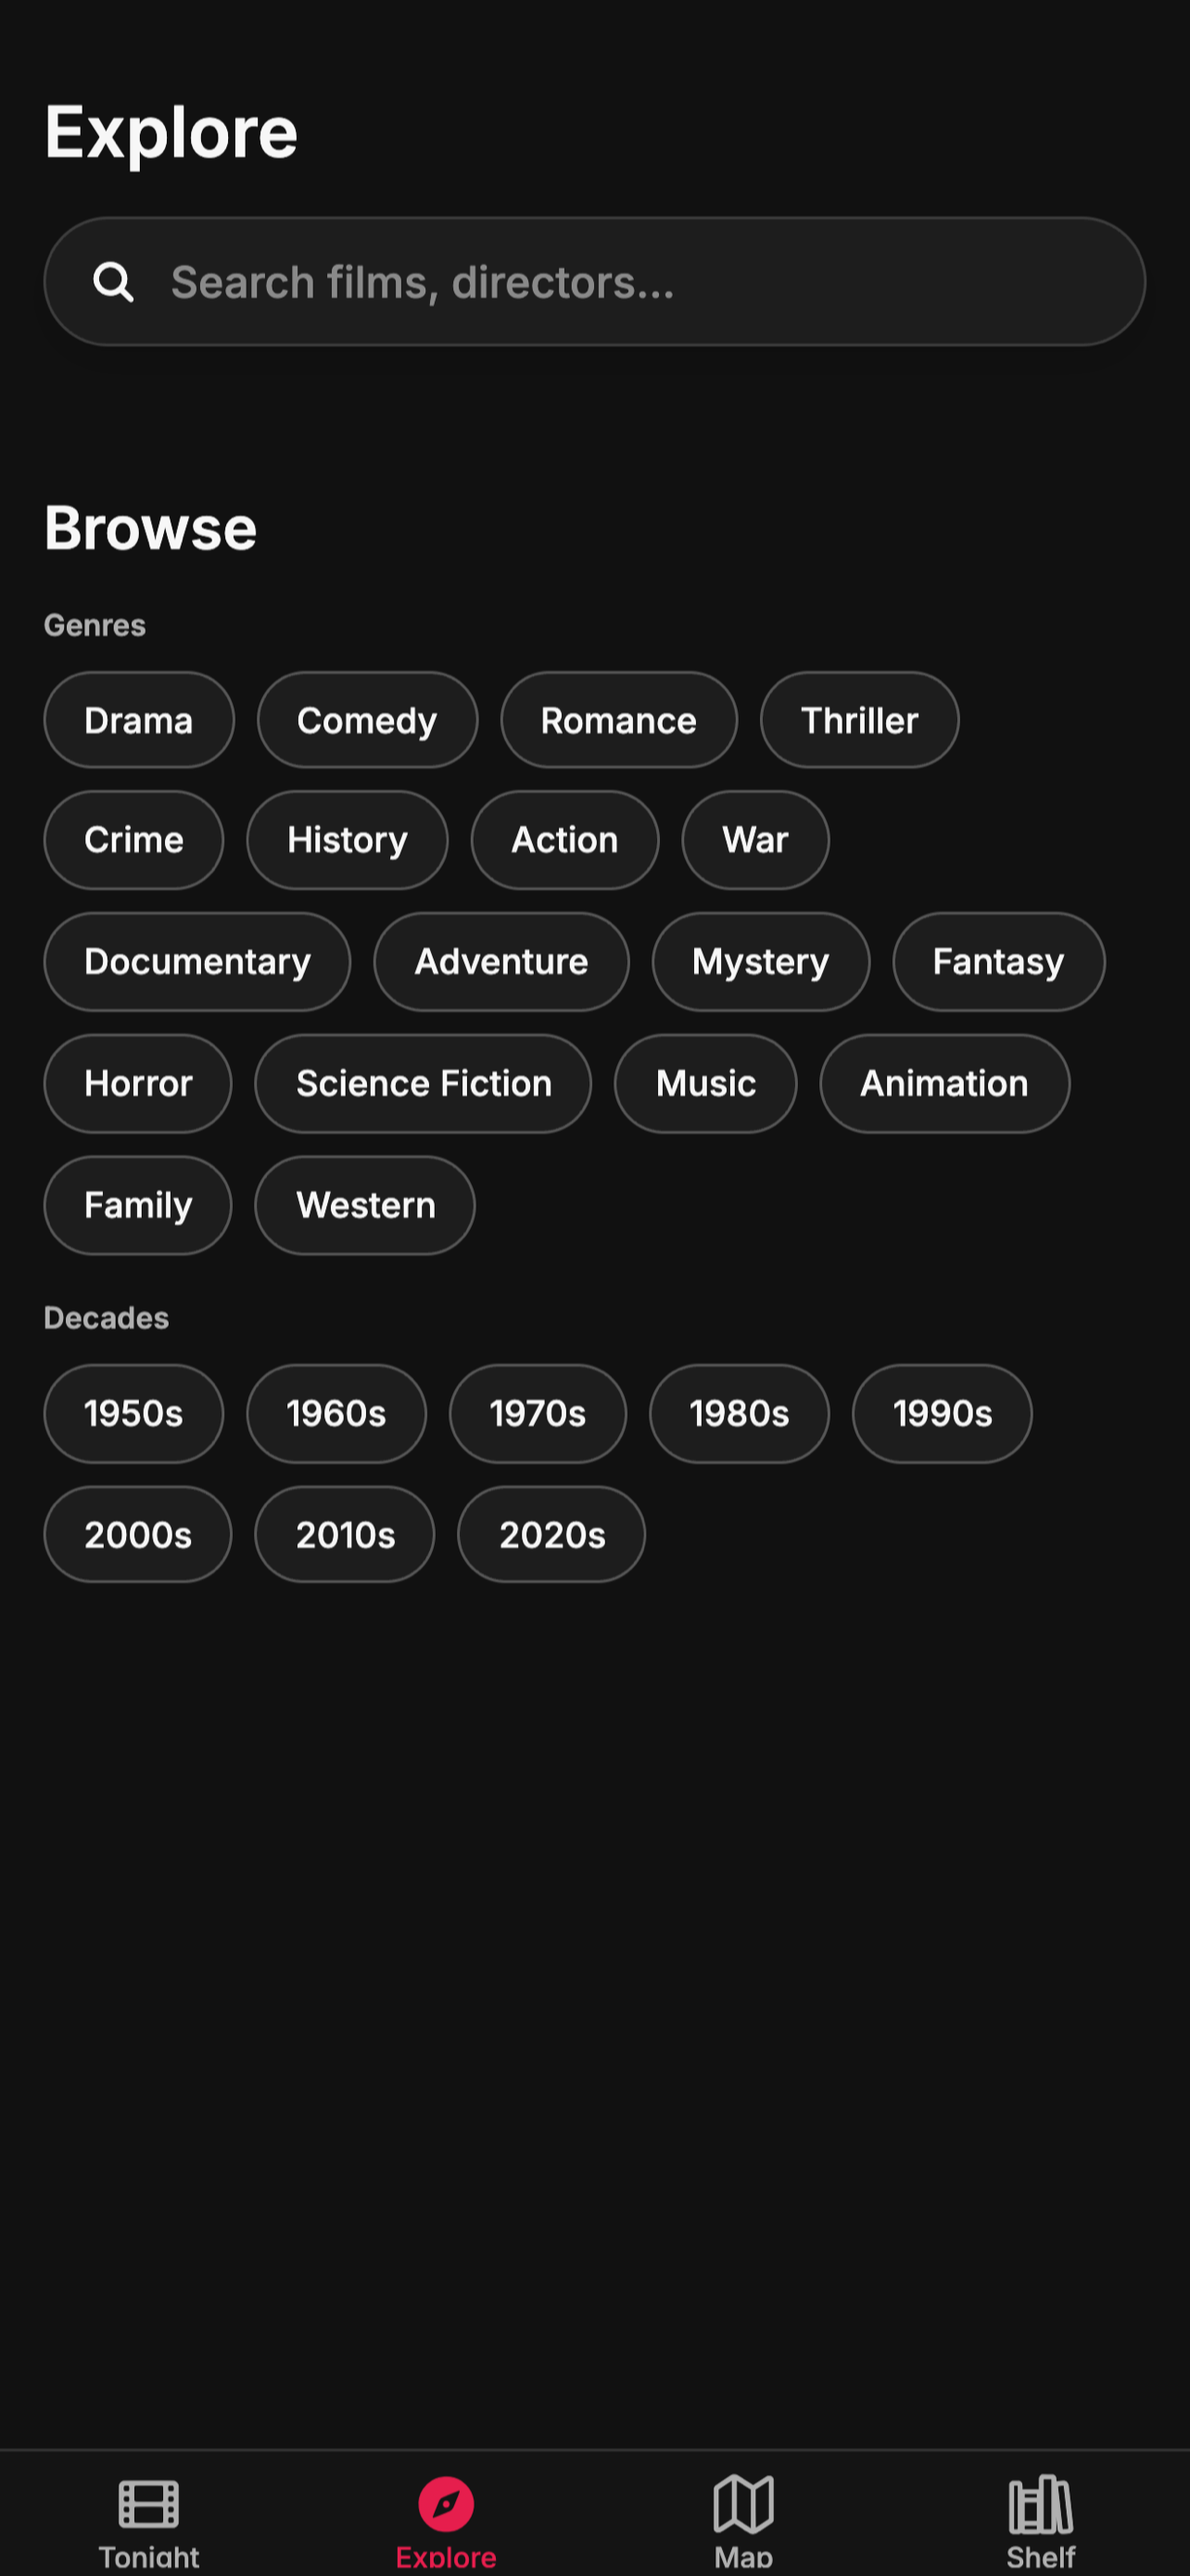
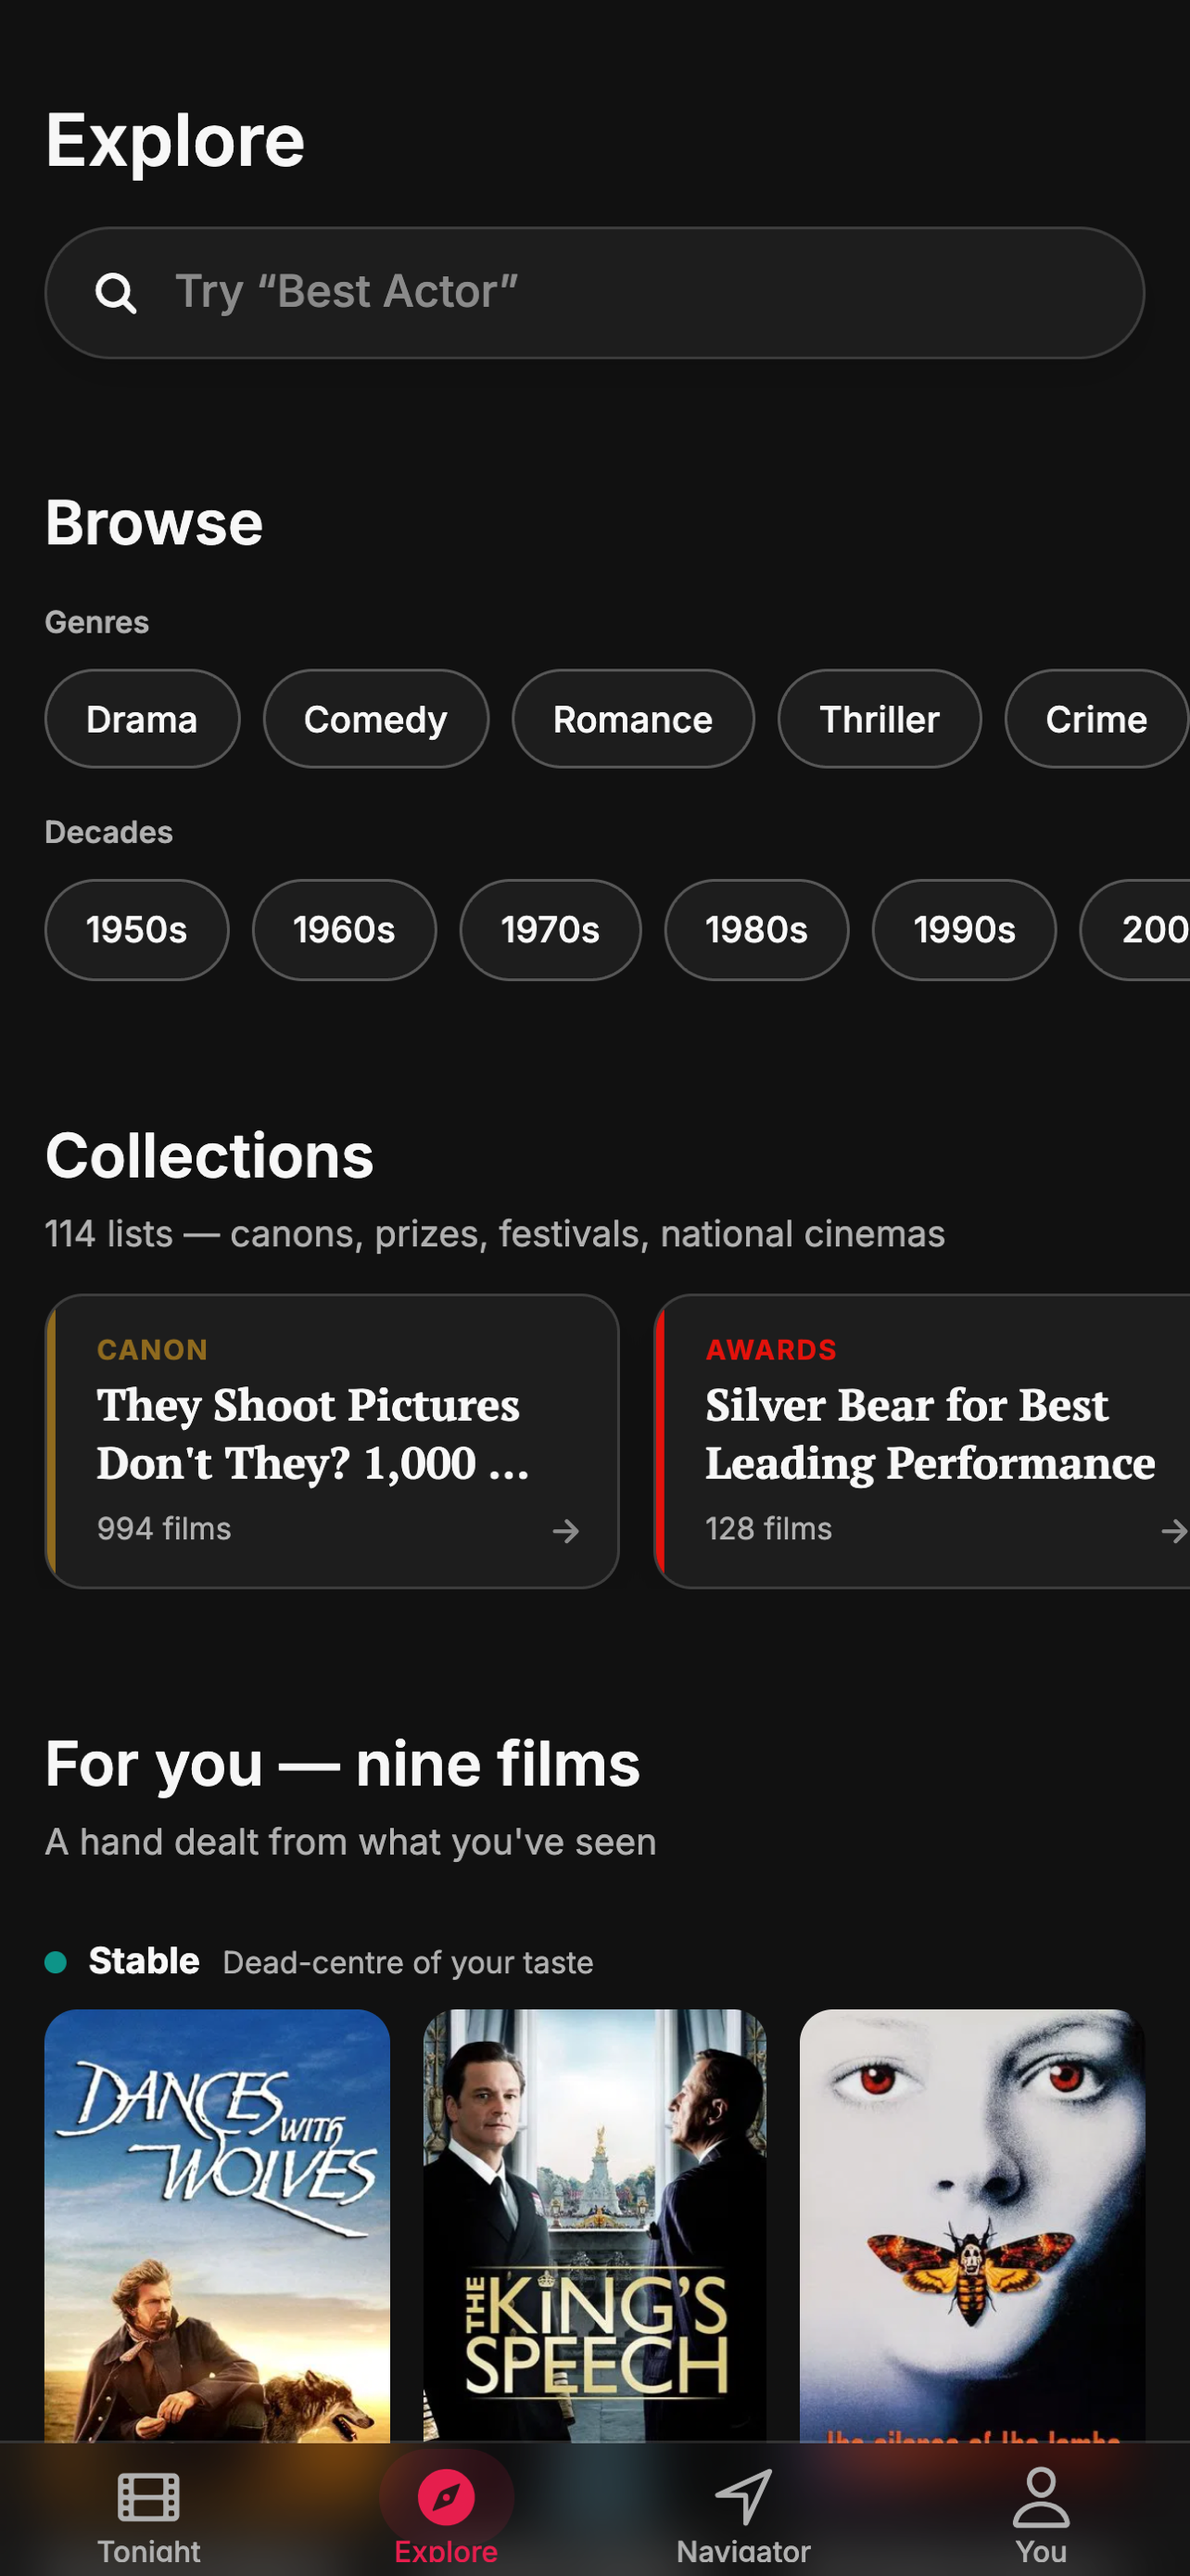
store(asc): real screenshots from the current app, and a runbook that matches it
The 6 screenshots sitting in App Store Connect show a Map tab and a Shelf tab.
Neither exists — the app has been Tonight / Explore / Navigator / You for weeks.
A reviewer who taps looking for Map does not find it, and "screenshots do not
accurately reflect the app" is a rejection, so these had to be replaced before
submitting.

The owner asked me to take them. There is no Xcode on this machine, so no
simulator; instead the app bundle itself is exported for web and rendered by
react-native-web in headless Chrome at exactly 430×932 @3x = 1290×2796, driven
over CDP with the app's own AsyncStorage keys seeded (onboarded, US, four
services) so it starts where a real user's phone would. Same code, same live
data — these are the app's screens, not mockups.

  01 Tonight          sort + year + On-my-services chips, the judgment deck
  02 Film brief       TakeScore 73 ring, #63 of 6978, An Invitation, to.W
  03 Where to watch   offers on the chosen services, JustWatch credit, Lineage
  04 Locations        the real Google map with pins, Open in Google Maps
  05 Metatake TV      the 18-chapter programme, "The full page on Metatake"
  06 Explore          "114 lists — canons, prizes, festivals, national cinemas"

Shipped at both accepted sizes: shots-69 (6.9", native) and shots-65 (6.5").

The Navigator drive is deliberately NOT included. Its overworld map is drawn
with react-native-svg and does not render under this renderer, and shipping a
[…]

diff --git a/mobile/store/REVIEW-NOTES.md b/mobile/store/REVIEW-NOTES.md
@@ -35,10 +35,20 @@ to SAVE judgments (watchlist / seen / ratings) and to enable notifications.
 4. Tap the judgment bar (want / seen). This is the one action that prompts
    sign-in.
 
-**Reviewer account:** no demo credentials are needed — the reviewer can create
-an account in-app with any email address they control: enter the email, receive
-an 8-digit one-time code, type it in. (Sign in with Apple is also offered on
-iOS.) Account deletion is available in-app under the You tab → account section
+**Reviewer account** — ready to use, no email round-trip required:
+
+```
+Username:  appstore.review@metatake.net
+Password:  Review-IEsheX0CHD47
+```
+
+Tap "Continue with email", enter the two values above, tap Continue. The account
+already exists, so this signs straight in.
+
+Three other ways in are offered, all real, none required for review: Sign in with
+Apple, Google, and an emailed 8-digit one-time code ("Email me a code instead").
+
+Account deletion is available in-app under the You tab → account section
 (Guideline 5.1.1(v)).
 
 ## Why the app requests location (when-in-use)

diff --git a/mobile/store/shots-retired/README.md b/mobile/store/shots-retired/README.md
@@ -1,0 +1,12 @@
+# Retired screenshots — DO NOT UPLOAD
+
+These show the app as it was before the tab structure changed: a **Map** tab and
+a **Shelf** tab that no longer exist. The app now has four tabs — Tonight,
+Explore, Navigator, You.
+
+Apple rejects screenshots that do not accurately represent the app, and a
+reviewer who taps looking for a Map tab will not find one. That is the whole
+reason these were replaced.
+
+Kept only as a record of the 1.0 listing's first draft. The live set is
+`../shots-69` (6.9", 1290×2796) and `../shots-65` (6.5", 1284×2778).
